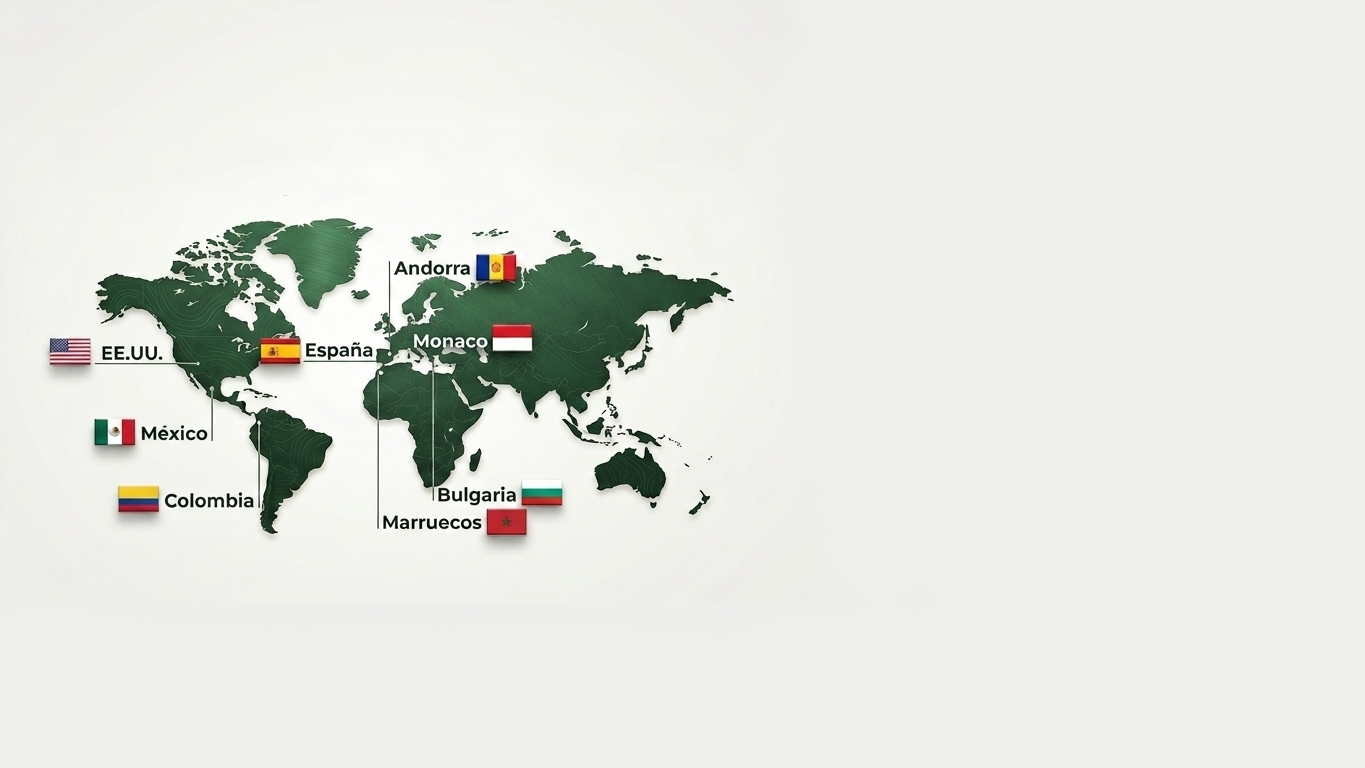
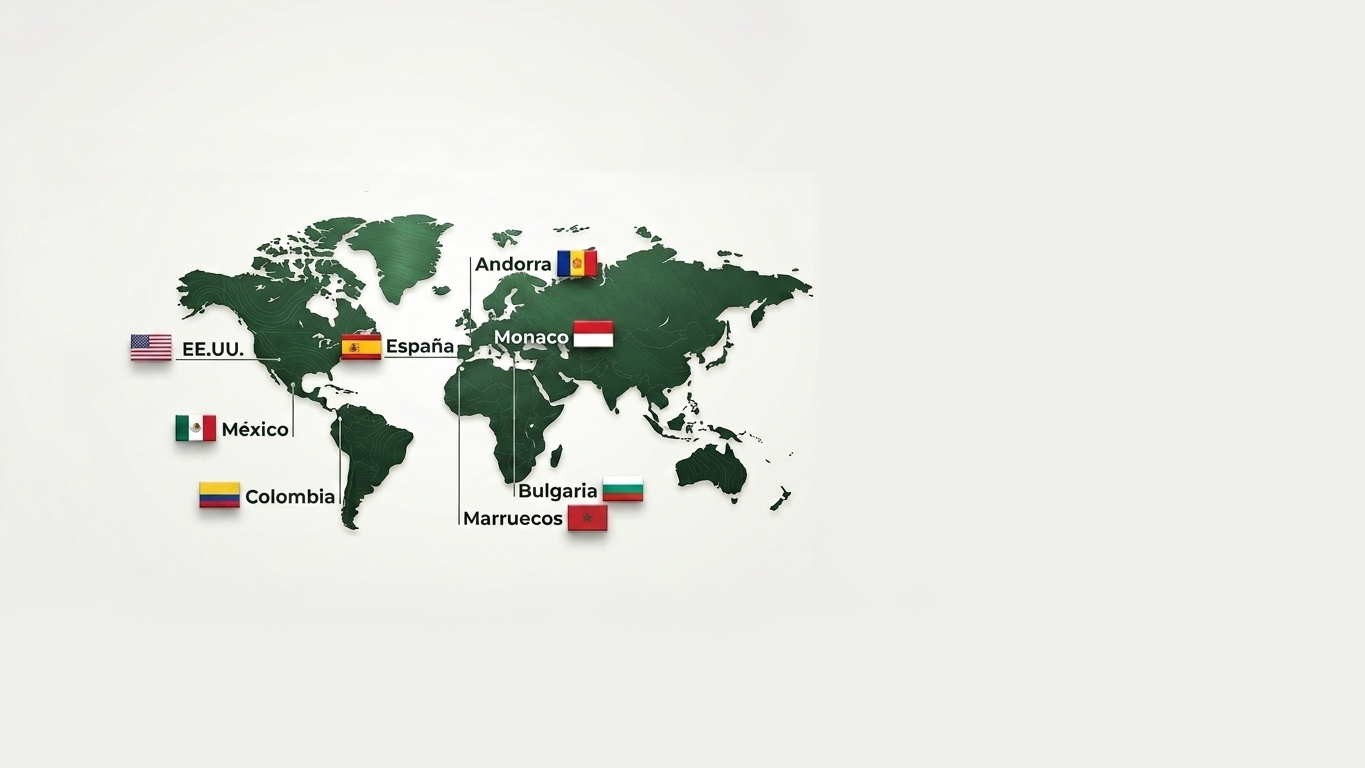
Mejora visual general

Changed region(s): [[0.0308, 0.2812, 0.5846, 0.7188]]

diff --git a/css/style.css b/css/style.css
@@ -307,11 +307,13 @@ body p {
 }
 
 .new-nav .navbar-nav .nav-link:hover,
-.new-nav .navbar-nav .nav-link.active {
+.new-nav .navbar-nav .nav-link.active,
+.new-nav .navbar-nav .nav-item.active .nav-link {
   color: #3eb843;
 }
 
-.new-nav .navbar-nav .nav-link.active {
+.new-nav .navbar-nav .nav-link.active,
+.new-nav .navbar-nav .nav-item.active .nav-link {
   font-weight: 600;
   padding: 0 16px;
   text-transform: uppercase;
@@ -528,7 +530,8 @@ body p {
   }
 
   .navbar-nav .nav-link:hover,
-  .navbar-nav .nav-link.active {
+  .navbar-nav .nav-link.active,
+  .navbar-nav .nav-item.active .nav-link {
     background: #f3fef5;
     color: #1f6b47;
   }
@@ -1853,7 +1856,7 @@ body p {
   color: #ffffff;
   font-weight: 300;
   padding: 8px 0px;
-  font-size: 2.49rem;
+  font-size: 2.30rem;
   text-transform: uppercase;
   margin-bottom: 8px;
 }
@@ -2057,9 +2060,9 @@ body p {
   background-color: #ffffff;
   padding: 30px;
   border-radius: 3px;
-  border: 3px solid rgba(87, 250, 5, 0.068);
+  border: 3px solid rgba(87, 250, 5, 0.354);
   /* Te subí a 12px para que haga juego con el diseño moderno de la foto */
-  box-shadow: 10px 15px 15px rgba(21, 250, 5, 0.143);
+  box-shadow: 0px 0px 30px rgba(21, 250, 5, 0.291);
 
   /* 3. El truco para centrar el SVG y alinear el texto */
   display: flex;
@@ -2835,6 +2838,13 @@ body p {
   border-color: #f9fcfb;
 }
 
+.linea-divisoria442 {
+  width: 34rem;
+  height: 4px;
+  background-color: #1ece2d;
+  /* El azul de tu tienda */
+  margin: 0 auto 20px auto;
+}
 .linea-divisoria {
   width: 37rem;
   height: 4px;
@@ -2842,6 +2852,7 @@ body p {
   /* El azul de tu tienda */
   margin: 0 auto 20px auto;
 }
+
 
 .linea-divisoriap {
   font-size: 16px;
@@ -7694,10 +7705,17 @@ a.gw-info-item:focus {
   .gw-phone-row {
     grid-template-columns: 1fr;
   }
+  .linea-divisoria442 {
+  width: 18rem;
+}
 }
 
 /* VERSION PARA TABLET IPAD MINI */
 @media screen and (min-width: 768px) and (max-width: 998px) {
+  .seccion-franquicia{
+    margin-right: 10px;
+    margin-left: 10px;
+  }
   .system-slide .text-section p {
     text-align: center;
     margin: 0 auto;
@@ -7884,6 +7902,17 @@ a.gw-info-item:focus {
   .hero_area {
     height: 90vh;
   }
+
+  /* 1. El contenedor del Banner Principal */
+.franquicia-master {
+  background-image: url('../images/franquiciamaster1280.png');
+}
 }
 
+@media (min-width: 1024px) and (max-width: 1279px) {
+  /* 1. El contenedor del Banner Principal */
+.franquicia-master {
+  background-image: url('../images/franquiciamaster1024.png');
+}
+}
 /*# sourceMappingURL=style.css.map */

diff --git a/js/nav-active.js b/js/nav-active.js
@@ -1,0 +1,36 @@
+// Manage navbar active state:
+// - On single-page home: use IntersectionObserver to set 'Inicio' active when hero area visible
+// - On other pages: set active link based on current pathname
+
+(function(){
+  function setActiveByHref(href){
+    var link = document.querySelector('.navbar-nav .nav-link[href="'+href+'"]');
+    if(!link) return null;
+    var li = link.closest('.nav-item');
+    document.querySelectorAll('.navbar-nav .nav-item').forEach(function(el){ el.classList.remove('active'); el.querySelectorAll('.nav-link').forEach(function(a){ a.classList.remove('active'); }); });
+    li.classList.add('active');
+    link.classList.add('active');
+    return li;
+  }
+
+  // Try matching by full filename (e.g., /about.html or about.html)
+  var path = window.location.pathname.split('/').pop() || 'index.html';
+  // If on index.html (home), keep 'Inicio' active for the whole page
+  if(path === '' || path === 'index.html'){
+    setActiveByHref('index.html');
+    return;
+  }
+
+  // For other pages, try to match exact file
+  var matched = setActiveByHref(path);
+  if(!matched){
+    // Try matching without extension
+    var name = path.replace(/\.html$/,'');
+    var link = document.querySelector('.navbar-nav .nav-link[href*="'+name+'"]');
+    if(link){
+      var li = link.closest('.nav-item');
+      li.classList.add('active');
+      link.classList.add('active');
+    }
+  }
+})();

diff --git a/service.html b/service.html
@@ -92,7 +92,7 @@
 
               <div class="collapse navbar-collapse justify-content-end" id="navbarSupportedContent">
                 <ul class="navbar-nav align-items-center">
-                  <li class="nav-item active">
+                  <li class="nav-item">
                     <a class="nav-link" href="index.html">Inicio</a>
                   </li>
                   <li class="nav-item">
@@ -162,7 +162,7 @@
   <section class="seccion-categorias">
     <div class="categorias-header">
       <h2>MODELOS DE IMPLANTACIÓN</h2>
-      <div class="linea-divisoria"></div>
+      <div class="linea-divisoria442"></div>
       <p><strong>Green Wash</strong> ofrece un modelo de negocio de máxima rentabilidad y adaptado a cada franquiciado a
         través de sus
         tres modalidades de implantación.</p>
@@ -468,3 +468,4 @@
 </body>
 
 </html>
+<script src="js/nav-active.js"></script>

diff --git a/index.html b/index.html
@@ -108,7 +108,7 @@
 
               <div class="collapse navbar-collapse justify-content-end" id="navbarSupportedContent">
                 <ul class="navbar-nav align-items-center">
-                  <li class="nav-item active">
+                  <li class="nav-item">
                     <a class="nav-link" href="index.html">Inicio</a>
                   </li>
                   <li class="nav-item">
@@ -324,6 +324,8 @@
       </div>
     </div>
   </section>
+  
+ 
   <!-- end welcome section -->
 
   <!-- Categorias -->
@@ -1244,5 +1246,8 @@
   </a>
 
 </body>
+</html>
+
+  <script src="js/nav-active.js"></script>
 
 </html>

diff --git a/about.html b/about.html
@@ -93,7 +93,7 @@
 
               <div class="collapse navbar-collapse justify-content-end" id="navbarSupportedContent">
                 <ul class="navbar-nav align-items-center">
-                  <li class="nav-item active">
+                  <li class="nav-item">
                     <a class="nav-link" href="index.html">Inicio</a>
                   </li>
                   <li class="nav-item">
@@ -651,3 +651,4 @@
 </body>
 
 </html>
+<script src="js/nav-active.js"></script>

diff --git a/avisolegal.html b/avisolegal.html
@@ -92,7 +92,7 @@
 
               <div class="collapse navbar-collapse justify-content-end" id="navbarSupportedContent">
                 <ul class="navbar-nav align-items-center">
-                  <li class="nav-item active">
+                  <li class="nav-item">
                     <a class="nav-link" href="index.html">Inicio</a>
                   </li>
                   <li class="nav-item">
@@ -289,3 +289,4 @@
 </body>
 
 </html>
+<script src="js/nav-active.js"></script>

diff --git a/blog.html b/blog.html
@@ -92,7 +92,7 @@
 
               <div class="collapse navbar-collapse justify-content-end" id="navbarSupportedContent">
                 <ul class="navbar-nav align-items-center">
-                  <li class="nav-item active">
+                  <li class="nav-item">
                     <a class="nav-link" href="index.html">Inicio</a>
                   </li>
                   <li class="nav-item">
@@ -386,3 +386,4 @@
 </body>
 
 </html>
+<script src="js/nav-active.js"></script>

diff --git a/contact.html b/contact.html
@@ -92,7 +92,7 @@
 
               <div class="collapse navbar-collapse justify-content-end" id="navbarSupportedContent">
                 <ul class="navbar-nav align-items-center">
-                  <li class="nav-item active">
+                  <li class="nav-item">
                     <a class="nav-link" href="index.html">Inicio</a>
                   </li>
                   <li class="nav-item">
@@ -592,3 +592,4 @@
 </body>
 
 </html>
+<script src="js/nav-active.js"></script>

diff --git a/franquiciamaster.html b/franquiciamaster.html
@@ -92,7 +92,7 @@
 
               <div class="collapse navbar-collapse justify-content-end" id="navbarSupportedContent">
                 <ul class="navbar-nav align-items-center">
-                  <li class="nav-item active">
+                  <li class="nav-item">
                     <a class="nav-link" href="index.html">Inicio</a>
                   </li>
                   <li class="nav-item">
@@ -513,3 +513,4 @@
 </body>
 
 </html>
+<script src="js/nav-active.js"></script>

diff --git a/localindustrial.html b/localindustrial.html
@@ -92,7 +92,7 @@
 
               <div class="collapse navbar-collapse justify-content-end" id="navbarSupportedContent">
                 <ul class="navbar-nav align-items-center">
-                  <li class="nav-item active">
+                  <li class="nav-item">
                     <a class="nav-link" href="index.html">Inicio</a>
                   </li>
                   <li class="nav-item">
@@ -530,3 +530,4 @@
 </body>
 
 </html>
+<script src="js/nav-active.js"></script>

diff --git a/parkinglowcost.html b/parkinglowcost.html
@@ -92,7 +92,7 @@
 
               <div class="collapse navbar-collapse justify-content-end" id="navbarSupportedContent">
                 <ul class="navbar-nav align-items-center">
-                  <li class="nav-item active">
+                  <li class="nav-item">
                     <a class="nav-link" href="index.html">Inicio</a>
                   </li>
                   <li class="nav-item">
@@ -601,3 +601,4 @@
 </body>
 
 </html>
+<script src="js/nav-active.js"></script>

diff --git a/parkingsubterraneo.html b/parkingsubterraneo.html
@@ -92,7 +92,7 @@
 
               <div class="collapse navbar-collapse justify-content-end" id="navbarSupportedContent">
                 <ul class="navbar-nav align-items-center">
-                  <li class="nav-item active">
+                  <li class="nav-item">
                     <a class="nav-link" href="index.html">Inicio</a>
                   </li>
                   <li class="nav-item">
@@ -582,3 +582,4 @@
 </body>
 
 </html>
+<script src="js/nav-active.js"></script>
